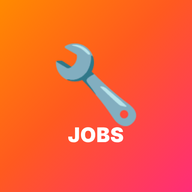
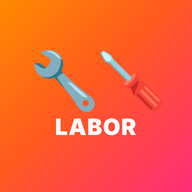
Add files via upload

Changed region(s): [[0.1562, 0.2188, 0.7188, 0.75], [0.5312, 0.25, 0.8438, 0.5625]]

diff --git a/jobs.html b/jobs.html
@@ -6,11 +6,11 @@
 <meta name="apple-mobile-web-app-capable" content="yes">
 <meta name="mobile-web-app-capable" content="yes">
 <meta name="theme-color" content="#ff5a1f">
-<title>Andy's Jobs</title>
+<title>Labor Report</title>
 <link rel="manifest" href="jobs-manifest.json">
 <link rel="icon" href="jobs-icon-192.png">
 <link rel="apple-touch-icon" href="jobs-icon-192.png">
-<meta name="apple-mobile-web-app-title" content="Andy's Jobs">
+<meta name="apple-mobile-web-app-title" content="Labor Report">
 <script src="https://www.gstatic.com/firebasejs/9.22.0/firebase-app-compat.js"></script>
 <script src="https://www.gstatic.com/firebasejs/9.22.0/firebase-firestore-compat.js"></script>
 <style>
@@ -32,7 +32,7 @@ button{cursor:pointer}
 .sync{text-align:center;padding:6px;font-size:12px;font-weight:600;background:var(--gainbg);color:var(--gain)}
 .sync.saving{background:#fef9c3;color:#854d0e}
 .sync.error{background:var(--lossbg);color:var(--loss)}
-.sbar{display:grid;grid-template-columns:repeat(4,1fr);gap:7px;padding:10px 10px 4px}
+.sbar{display:grid;grid-template-columns:repeat(3,1fr);gap:7px;padding:10px 10px 4px}
 .st{border-radius:12px;padding:8px 2px;color:#fff}
 .st:nth-child(1){background:linear-gradient(135deg,#3b82f6,#2563eb)}
 .st:nth-child(2){background:linear-gradient(135deg,#a78bfa,#7c3aed)}
@@ -132,7 +132,7 @@ textarea.field{min-height:70px;resize:vertical}
 <body>
 
 <div class="hdr">
-  <h1>🔧 Andy's Jobs</h1>
+  <h1>🔧 Labor Report</h1>
   <div class="hdr-r">
     <button class="hdr-btn" id="soundBtn">🔊</button>
     <button class="hdr-btn" id="csvBtn">⬇ Export</button>
@@ -145,7 +145,6 @@ textarea.field{min-height:70px;resize:vertical}
   <div class="st"><div class="sn" id="sJobs">0</div><div class="sl">Jobs</div></div>
   <div class="st"><div class="sn" id="sHours">0 / 0</div><div class="sl">Actual / book hours</div></div>
   <div class="st"><div class="sn g" id="sMade">$0</div><div class="sl">Profit</div></div>
-  <div class="st"><div class="sn" id="sRate">–</div><div class="sl">Per hour</div></div>
 </div>
 <div class="subline" id="sSub">Charged $0 · Parts &amp; supplies $0</div>
 
@@ -492,8 +491,7 @@ function render(){
   $('sJobs').textContent = shown.length;
   $('sHours').textContent = hrs(tw) + ' / ' + hrs(tc);
   $('sMade').textContent = money(Math.round(made));
-  $('sRate').textContent = tw ? '$' + Math.round(made / tw) : '–';
-  $('sSub').textContent = 'Charged ' + money(tm) + ' · Parts & supplies ' + money(tt);
+    $('sSub').textContent = 'Charged ' + money(tm) + ' · Parts & supplies ' + money(tt);
   $('hint').textContent = q ? shown.length + (shown.length===1?' job found':' jobs found') : '';
 
   if(!jobs.length){ $('list').innerHTML = '<div class="empty">No jobs yet.<br>Tap <b>+ Add</b> to log the first one.</div>'; return; }
